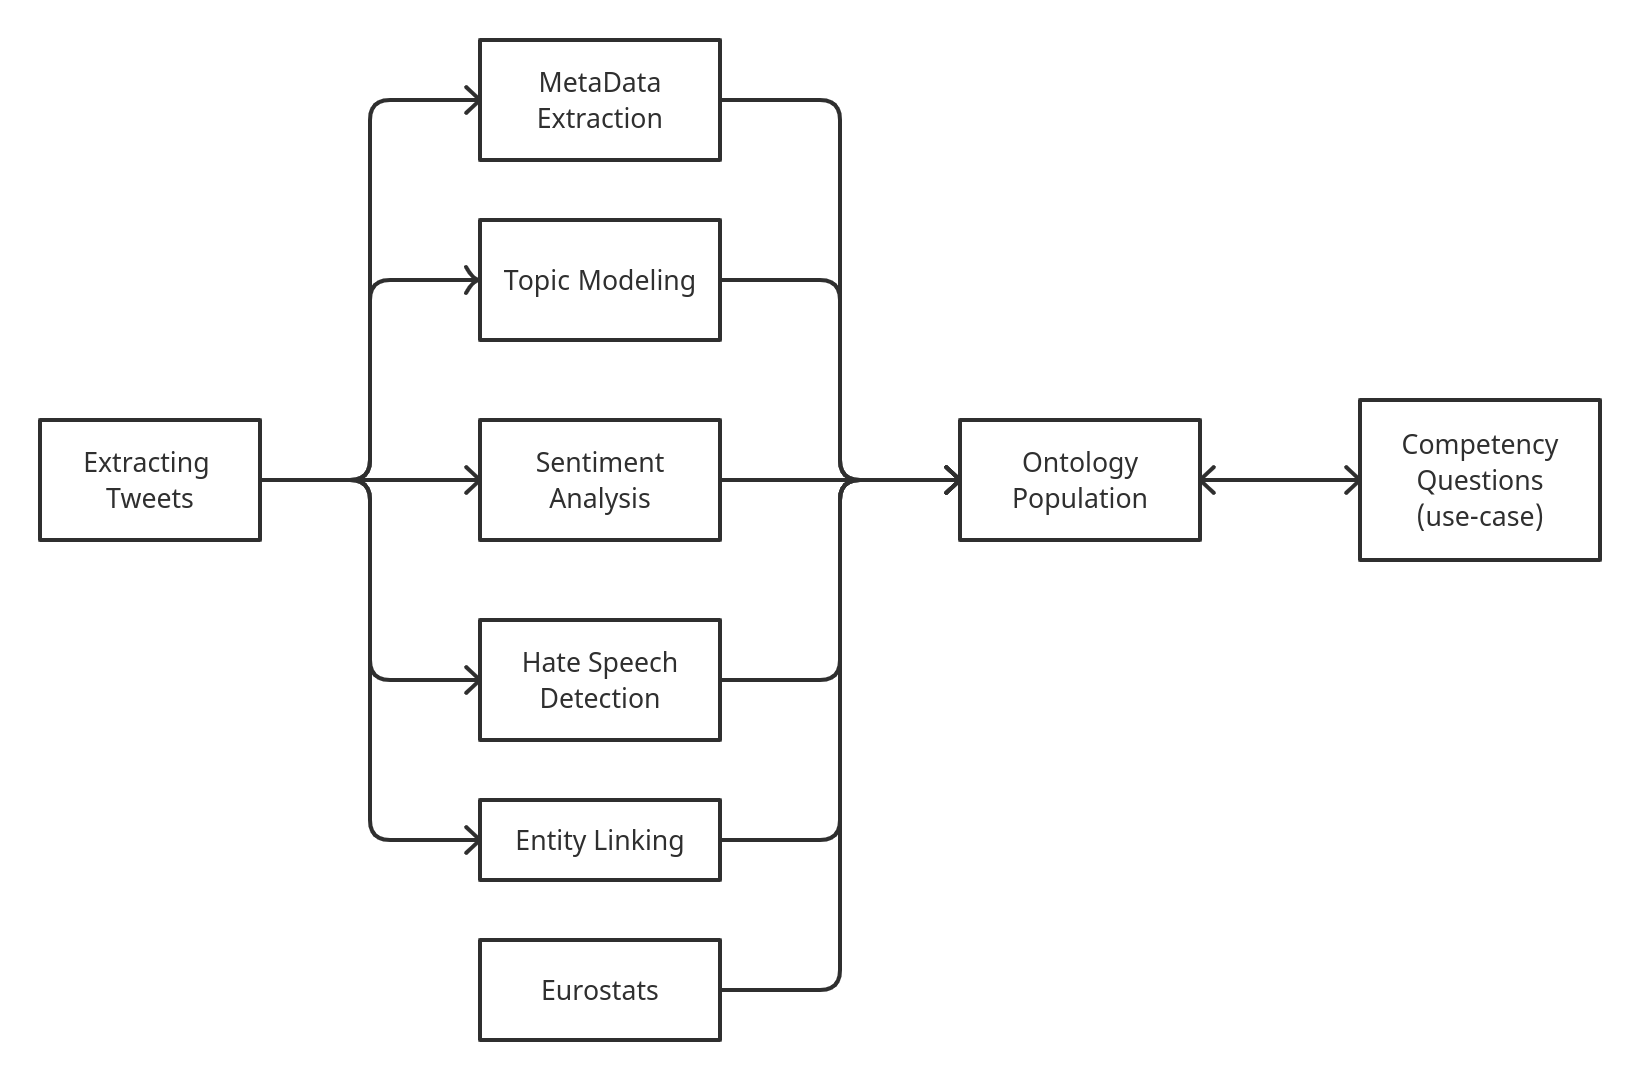
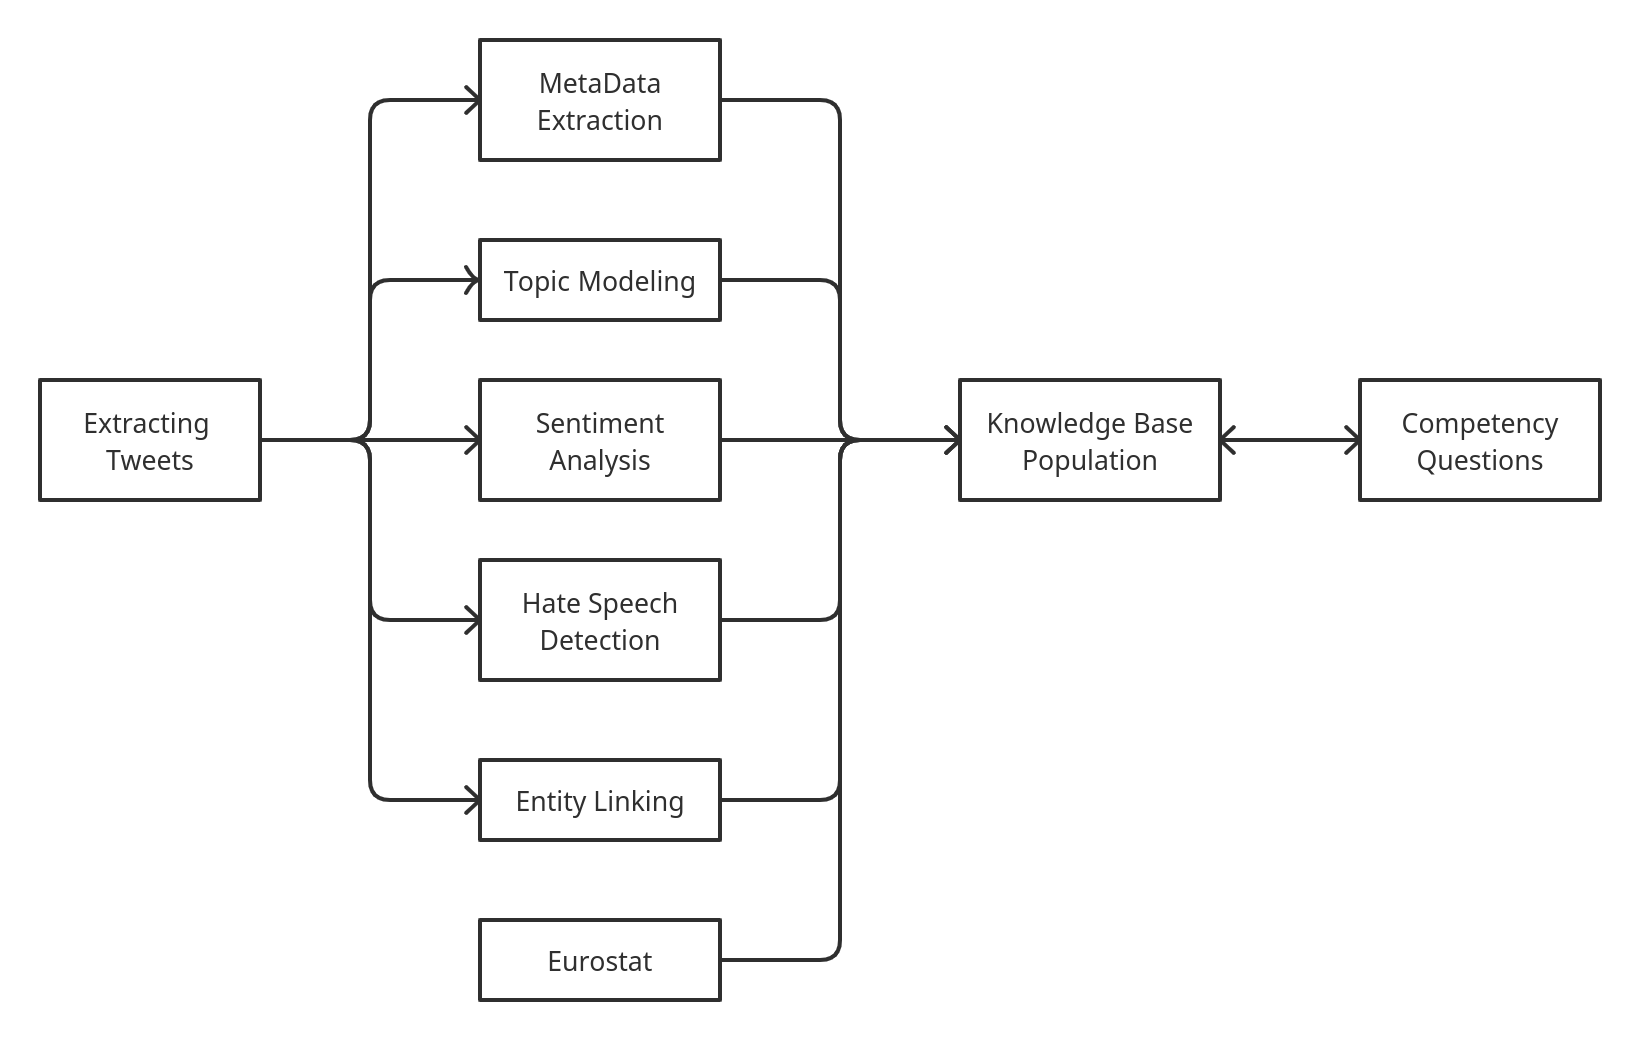
update README

diff --git a/topic_modeling/ETM/main.py b/topic_modeling/ETM/main.py
@@ -1,14 +1,13 @@
-#/usr/bin/python
+# /usr/bin/python
 
 from __future__ import print_function
 
 import argparse
 import torch
-import pickle 
-import numpy as np 
-import os 
+import pickle
+import numpy as np
+import os
 import math
-
 
 import data
 import scipy.io
@@ -21,9 +20,10 @@ from topic_modeling.ETM.utils import nearest_neighbors, get_topic_coherence, get
 parser = argparse.ArgumentParser(description='The Embedded Topic Model')
 
 ### data and file related arguments
-parser.add_argument('--dataset', type=str, default='hateXplain', help='name of corpus')
+parser.add_argument('--dataset', type=str, default='tweets', help='name of corpus')
 parser.add_argument('--data_path', type=str, default='data/etm_data', help='directory containing data')
-parser.add_argument('--emb_path', type=str, default='data/etm_data/embeddings.txt', help='directory containing word embeddings')
+parser.add_argument('--emb_path', type=str, default='data/etm_data/embeddings.txt',
+                    help='directory containing word embeddings')
 parser.add_argument('--save_path', type=str, default='topic_modeling/results/', help='path to save results')
 parser.add_argument('--batch_size', type=int, default=1000, help='input batch size for training')
 
@@ -32,7 +32,8 @@ parser.add_argument('--num_topics', type=int, default=50, help='number of topics
 parser.add_argument('--rho_size', type=int, default=300, help='dimension of rho')
 parser.add_argument('--emb_size', type=int, default=300, help='dimension of embeddings')
 parser.add_argument('--t_hidden_size', type=int, default=800, help='dimension of hidden space of q(theta)')
-parser.add_argument('--theta_act', type=str, default='relu', help='tanh, softplus, relu, rrelu, leakyrelu, elu, selu, glu)')
+parser.add_argument('--theta_act', type=str, default='relu',
+                    help='tanh, softplus, relu, rrelu, leakyrelu, elu, selu, glu)')
 parser.add_argument('--train_embeddings', type=int, default=0, help='whether to fix rho or train it')
 
 ### optimization-related arguments
@@ -54,7 +55,8 @@ parser.add_argument('--num_words', type=int, default=10, help='number of words f
 parser.add_argument('--log_interval', type=int, default=2, help='when to log training')
 parser.add_argument('--visualize_every', type=int, default=10, help='when to visualize results')
 parser.add_argument('--eval_batch_size', type=int, default=1000, help='input batch size for evaluation')
-parser.add_argument('--load_from', type=str, default='/home/yiyi/MigrTwi/082021/topic_modeling/results/', help='the name of the ckpt to eval from')
+parser.add_argument('--load_from', type=str, default='/home/yiyi/MigrTwi/082021/topic_modeling/results/',
+                    help='the name of the ckpt to eval from')
 parser.add_argument('--tc', type=int, default=0, help='whether to compute topic coherence or not')
 parser.add_argument('--td', type=int, default=0, help='whether to compute topic diversity or not')
 
@@ -101,7 +103,6 @@ print(f'retrieving test file, length {args.num_docs_test}')
 print(f'retrieving test1 file, length {args.num_docs_test_1}')
 print(f'retrieving test2 file, length {args.num_docs_test_2}')
 
-
 ### load existing embeddings..
 embeddings = None
 if not args.train_embeddings:
@@ -118,17 +119,17 @@ if not args.train_embeddings:
     embeddings = np.zeros((vocab_size, args.emb_size))
     words_found = 0
     for i, word in enumerate(vocab):
-        try: 
+        try:
             embeddings[i] = vectors[word]
             words_found += 1
         except KeyError:
-            embeddings[i] = np.random.normal(scale=0.6, size=(args.emb_size, ))
+            embeddings[i] = np.random.normal(scale=0.6, size=(args.emb_size,))
     embeddings = torch.from_numpy(embeddings).to(device)
     args.embeddings_dim = embeddings.size()
 
-print('=*'*100)
+print('=*' * 100)
 print('Training an Embedded Topic Model on {} with the following settings: {}'.format(args.dataset.upper(), args))
-print('=*'*100)
+print('=*' * 100)
 
 ## define checkpoint
 # if not os.path.exists(args.save_path):
@@ -138,22 +139,22 @@ print('=*'*100)
 if args.mode == 'eval':
     ckpt = args.load_from
 else:
-    ckpt = os.path.join(args.save_path,'etm_{}_K_{}_Htheta_{}_Optim_{}_Clip_{}_ThetaAct_{}_Lr_{}_Bsz_{}_RhoSize_{}_trainEmbeddings_{}'.format(
-        args.dataset, args.num_topics, args.t_hidden_size, args.optimizer, args.clip, args.theta_act, 
-            args.lr, args.batch_size, args.rho_size, args.train_embeddings))
+    ckpt = os.path.join(args.save_path,
+                        'etm_{}_K_{}_Htheta_{}_Optim_{}_Clip_{}_ThetaAct_{}_Lr_{}_Bsz_{}_RhoSize_{}_trainEmbeddings_{}'.format(
+                            args.dataset, args.num_topics, args.t_hidden_size, args.optimizer, args.clip,
+                            args.theta_act,
+                            args.lr, args.batch_size, args.rho_size, args.train_embeddings))
     print(ckpt)
 
 ## define model and optimizer
 model = ETM(args.num_topics, vocab_size, args.t_hidden_size, args.rho_size, args.emb_size,
-             args.theta_act, embeddings, args.train_embeddings, args.enc_drop).to(device)
+            args.theta_act, embeddings, args.train_embeddings, args.enc_drop).to(device)
 
-
-# filepath = "src/topic_modeling/ETM/results/hateXplain/backup/etm_hateXplain_K_18_Htheta_800_Optim_adam_Clip_0.0_ThetaAct_relu_Lr_0.005_Bsz_1000_RhoSize_300_trainEmbeddings_0_val_ppl_1148.2_epoch_137"
+# filepath=""
 # with open(filepath, 'rb') as f:
 #     model = torch.load(f)
 # print('model: {}'.format(model))
 # model.to(device)
-
 
 
 if args.optimizer == 'adam':
@@ -169,6 +170,7 @@ elif args.optimizer == 'asgd':
 else:
     print('Defaulting to vanilla SGD')
     optimizer = optim.SGD(model.parameters(), lr=args.lr)
+
 
 def train(epoch):
     model.train()
@@ -199,38 +201,39 @@ def train(epoch):
         cnt += 1
 
         if idx % args.log_interval == 0 and idx > 0:
-            cur_loss = round(acc_loss / cnt, 2) 
-            cur_kl_theta = round(acc_kl_theta_loss / cnt, 2) 
+            cur_loss = round(acc_loss / cnt, 2)
+            cur_kl_theta = round(acc_kl_theta_loss / cnt, 2)
             cur_real_loss = round(cur_loss + cur_kl_theta, 2)
 
             print('Epoch: {} .. batch: {}/{} .. LR: {} .. KL_theta: {} .. Rec_loss: {} .. NELBO: {}'.format(
                 epoch, idx, len(indices), optimizer.param_groups[0]['lr'], cur_kl_theta, cur_loss, cur_real_loss))
-    
-    cur_loss = round(acc_loss / cnt, 2) 
-    cur_kl_theta = round(acc_kl_theta_loss / cnt, 2) 
+
+    cur_loss = round(acc_loss / cnt, 2)
+    cur_kl_theta = round(acc_kl_theta_loss / cnt, 2)
     cur_real_loss = round(cur_loss + cur_kl_theta, 2)
-    print('*'*100)
+    print('*' * 100)
     print('Epoch----->{} .. LR: {} .. KL_theta: {} .. Rec_loss: {} .. NELBO: {}'.format(
-            epoch, optimizer.param_groups[0]['lr'], cur_kl_theta, cur_loss, cur_real_loss))
-    print('*'*100)
+        epoch, optimizer.param_groups[0]['lr'], cur_kl_theta, cur_loss, cur_real_loss))
+    print('*' * 100)
+
 
 def visualize(m, show_emb=True):
     if not os.path.exists(args.save_path):
         os.makedirs(args.save_path)
 
     m.eval()
-    logvisual = open(os.path.join(args.save_path,'log.txt'), 'a+')
-    queries = ['refugee', 'immigrant',  'syria', 'iran', 'border', 'african', 'asian', 'christian', 'jewish', 'islam']
+    logvisual = open(os.path.join(args.save_path, 'log.txt'), 'a+')
+    queries = ['refugee', 'immigrant', 'syria', 'iran', 'border', 'african', 'asian', 'christian', 'jewish', 'islam']
 
     ## visualize topics using monte carlo
     with torch.no_grad():
-        print('#'*100)
+        print('#' * 100)
         print('Visualize topics...')
         topics_words = []
         gammas = m.get_beta()
         for k in range(args.num_topics):
             gamma = gammas[k]
-            top_words = list(gamma.cpu().numpy().argsort()[-args.num_words+1:][::-1])
+            top_words = list(gamma.cpu().numpy().argsort()[-args.num_words + 1:][::-1])
             topic_words = [vocab[a] for a in top_words]
             topics_words.append(' '.join(topic_words))
             print('Topic {}: {}'.format(k, topic_words))
@@ -238,22 +241,23 @@ def visualize(m, show_emb=True):
 
         if show_emb:
             ## visualize word embeddings by using V to get nearest neighbors
-            print('#'*100)
+            print('#' * 100)
             print('Visualize word embeddings by using output embedding matrix')
             try:
                 embeddings = m.rho.weight  # Vocab_size x E
             except:
-                embeddings = m.rho         # Vocab_size x E
+                embeddings = m.rho  # Vocab_size x E
             neighbors = []
             for word in queries:
                 logvisual.write('word: {} .. neighbors: {}'.format(
                     word, nearest_neighbors(word, embeddings, vocab)))
-                
+
                 print('word: {} .. neighbors: {}'.format(
                     word, nearest_neighbors(word, embeddings, vocab)))
-            print('#'*100)
-    logvisual.write('#'*100)
+            print('#' * 100)
+    logvisual.write('#' * 100)
     logvisual.close()
+
 
 def evaluate(m, source, tc=False, td=False):
     """Compute perplexity on document completion.
@@ -272,7 +276,6 @@ def evaluate(m, source, tc=False, td=False):
             tokens = test_tokens
             counts = test_counts
             print(f' test tokens length {len(tokens)}')
-
 
         ## get \beta here
         beta = m.get_beta()
@@ -299,7 +302,7 @@ def evaluate(m, source, tc=False, td=False):
             preds = torch.log(res)
             ############## loss function
             recon_loss = -(preds * data_batch_2).sum(1)
-            
+
             loss = recon_loss / sums_2.squeeze()
             loss = loss.mean().item()
             acc_loss += loss
@@ -307,9 +310,9 @@ def evaluate(m, source, tc=False, td=False):
 
         cur_loss = acc_loss / cnt
         ppl_dc = round(math.exp(cur_loss), 1)
-        print('*'*100)
+        print('*' * 100)
         print('{} Doc Completion PPL: {}'.format(source.upper(), ppl_dc))
-        print('*'*100)
+        print('*' * 100)
         if tc or td:
             beta = beta.data.cpu().numpy()
             if tc:
@@ -319,6 +322,7 @@ def evaluate(m, source, tc=False, td=False):
                 print('Computing topic diversity...')
                 get_topic_diversity(beta, 25)
         return ppl_dc
+
 
 if args.mode == 'train':
     ## train model on data 
@@ -335,7 +339,7 @@ if args.mode == 'train':
         ###
         val_ppl = evaluate(model, 'val')
         if val_ppl < best_val_ppl:
-            filename = ckpt+'_val_ppl_'+str(val_ppl)+'_epoch_'+str(epoch)
+            filename = ckpt + '_val_ppl_' + str(val_ppl) + '_epoch_' + str(epoch)
             with open(filename, 'wb') as f:
                 print('saving BEST model to', filename)
                 torch.save(model, f)
@@ -344,12 +348,13 @@ if args.mode == 'train':
         else:
             ## check whether to anneal lr
             lr = optimizer.param_groups[0]['lr']
-            if args.anneal_lr and (len(all_val_ppls) > args.nonmono and val_ppl > min(all_val_ppls[:-args.nonmono]) and lr > 1e-5):
+            if args.anneal_lr and (
+                    len(all_val_ppls) > args.nonmono and val_ppl > min(all_val_ppls[:-args.nonmono]) and lr > 1e-5):
                 optimizer.param_groups[0]['lr'] /= args.lr_factor
         if epoch % args.visualize_every == 0:
             visualize(model)
         all_val_ppls.append(val_ppl)
-        
+
     with open(ckpt, 'rb') as f:
         model = torch.load(f)
 
@@ -394,11 +399,11 @@ else:
 
         ## show topics
         beta = model.get_beta()
-        topic_indices = list(np.random.choice(args.num_topics, 10)) # 10 random topics
+        topic_indices = list(np.random.choice(args.num_topics, 10))  # 10 random topics
         print('\n')
-        for k in range(args.num_topics):#topic_indices:
+        for k in range(args.num_topics):  # topic_indices:
             gamma = beta[k]
-            top_words = list(gamma.cpu().numpy().argsort()[-args.num_words+1:][::-1])
+            top_words = list(gamma.cpu().numpy().argsort()[-args.num_words + 1:][::-1])
             topic_words = [vocab[a] for a in top_words]
             print('Topic {}: {}'.format(k, topic_words))
 

diff --git a/populate_kb/01_populate_kb.py b/populate_kb/01_populate_kb.py
@@ -361,22 +361,24 @@ if __name__ == '__main__':
     df.dropna(subset=['country_code'], inplace=True)
     df = df[df['topic_immig_max_score'] > 0.45]
     df['Year'] = [int(x) for x in df['created_at'].str.slice(stop=4)] #200k
-    print(f'len of df: {len(df)}')  # 307339
+    for year in [2021]:
+        df_year = df[df['Year']==year]
 
-    # df = df.sample(10)
+        print(f'len of df: {len(df_year)}')  # 307339
 
-    now = datetime.now()
-    date_time = now.strftime("%m%d%Y_%H%M%S")
-    with open('../data/extracted/entities_dict_extracted_20210810.json') as file:
-        entities_dict = json.load(file)
+        # df = df.sample(10)
 
-    ## entity resources
-    define_entity_resources(entities_dict)
-    rgdpr_dict, total_ur, youth_ur = define_economic_indicators()
-    count = 0
-    for idx, row in df.iterrows():
-        print('processing ...', count, '\r')
-        add_triples_for_one_tweet(g, row, entities_dict)
-        count += 1
+        now = datetime.now()
+        date_time = now.strftime("%m%d%Y_%H%M%S")
+        with open('../data/extracted/entities_dict_extracted_20210810.json') as file:
+            entities_dict = json.load(file)
 
-    g.serialize(destination=f"output/migrationsKB_{date_time}.nt", format="nt")
+        ## entity resources
+        define_entity_resources(entities_dict)
+        rgdpr_dict, total_ur, youth_ur = define_economic_indicators()
+        count = 0
+        for idx, row in df_year.iterrows():
+            add_triples_for_one_tweet(g, row, entities_dict)
+            count += 1
+
+        g.serialize(destination=f"output/yearly/migrationsKB_{year}.nt", format="nt")

diff --git a/README.md b/README.md
@@ -76,7 +76,11 @@
   * relevant topics: 
     * [ 0,1,2,3,5,8,12,13,15,16,18,22,24,25, 29,32,34,36,41,42,45,47,48]
   * show the topics and topic words
+    * ![](topic_modeling/topic_words/topicwords_50.json)
   
 
 ### 8. KB population
-
+* Populate Knowledge Base
+  * `python 01_populate_kb.py`
+* Generate Documentation for RDF schema
+  * `python 02_document_schema.py`
